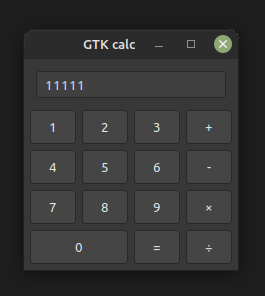
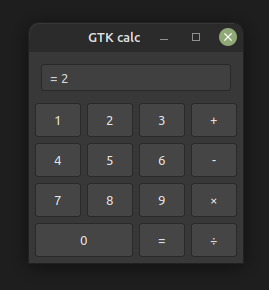
plus button screenshot

diff --git a/README.md b/README.md
@@ -1,5 +1,5 @@
 # calculator_gtk
 
-fix operators
+fix all buttons
 
-add math
+fix -*/ operators
